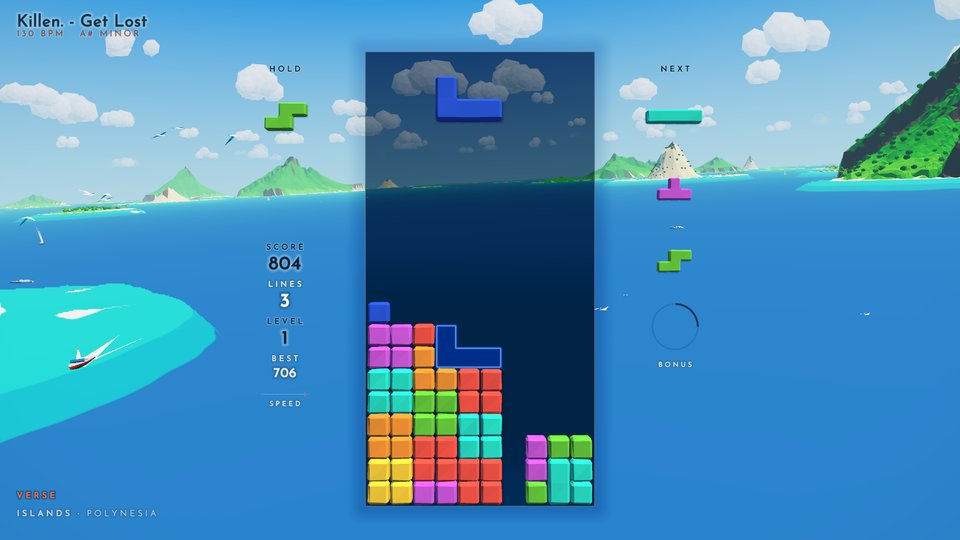
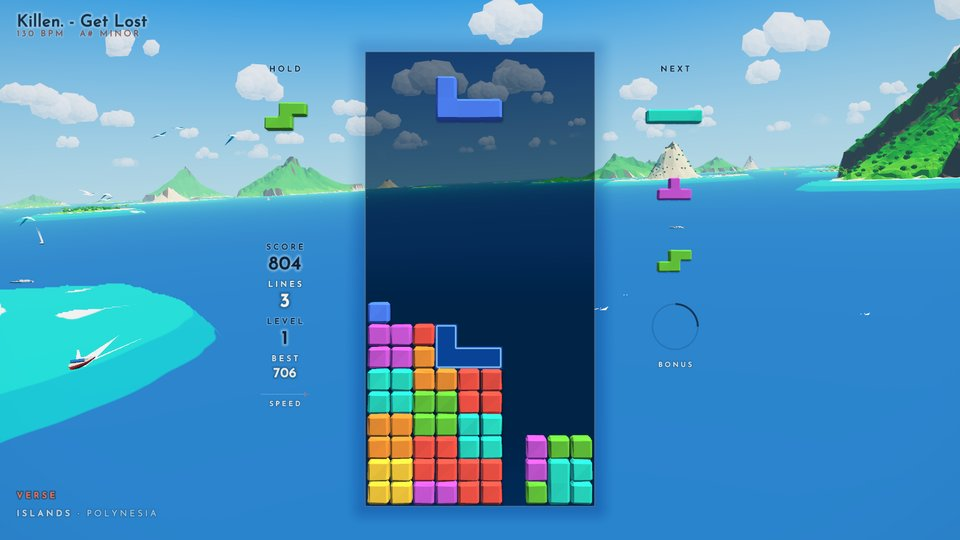
ISLANDS: the blue piece lighter in every variant (it sank into the deep blue well)
Claude-Session: https://claude.ai/code/session_01TRpCVe8qgHvBr5qwovmpX7

Changed region(s): [[0.4375, 0.1185, 0.5312, 0.237], [0.4375, 0.5926, 0.5312, 0.6815], [0.375, 0.563, 0.4062, 0.5926]]

diff --git a/src/universes/islands/islands.cpp b/src/universes/islands/islands.cpp
@@ -121,22 +121,22 @@ const VariantDef VARIANTS[] = {
     {"CARIBBEAN", 0xf2dfa8, 0xd8c08a, 0x6cc040, 0x3e9a34, 0x7a5e48, 0x5a4234, 0xe6dcc0, 0xc4806c, 0x6e9048, 0xa4a052, 0.12f,
      0x3ccad2, 0x2366b6, {0.85f, 0.16f, 0.1f}, 9.f, 1.f,
      0x4f9a2e, 0xc2b848, 0x8c7658, 0x3e8c30, 0x2a6a28, 0.42f, 0,
-     0x0a1e32, {0x22d0d6, 0xf7c332, 0xa760e8, 0x3fcf6e, 0xf0475e, 0x3466f0, 0xff8c2e}, 0xff7a5a},
+     0x0a1e32, {0x22d0d6, 0xf7c332, 0xa760e8, 0x3fcf6e, 0xf0475e, 0x5c90ff, 0xff8c2e}, 0xff7a5a},
     // jagged jungle peaks in emerald lagoons, overwater bungalows of thatch
     {"POLYNESIA", 0xf0dca8, 0xd4bc88, 0x58b838, 0x2a8a30, 0x6a5444, 0x4e3a2e, 0xe4dcc2, 0xcc8670, 0x80689c, 0x8aa648, 0.05f,
      0x36d2c2, 0x1d5cac, {0.8f, 0.13f, 0.09f}, 10.f, 1.1f,
      0x3e902a, 0xb4c040, 0x806c50, 0x2e8228, 0x1c5a22, 0.5f, 0,
-     0x081e2a, {0x2ae6c4, 0xffd23c, 0xd25ad8, 0x6ad13c, 0xff5646, 0x2a58d8, 0xff9a36}, 0xff6a4a},
+     0x081e2a, {0x2ae6c4, 0xffd23c, 0xd25ad8, 0x6ad13c, 0xff5646, 0x5288fa, 0xff9a36}, 0xff6a4a},
     // white villages, olive trees and cypresses on pale limestone, a deep blue sea
     {"MEDITERRANEAN", 0xecdcb0, 0xccb48a, 0x9aac46, 0x5a8034, 0xb8946c, 0x86624a, 0xdcd6c4, 0x8c8c62, 0x5c7046, 0xc8a456, 0.45f,
      0x34b2da, 0x1c56ae, {0.75f, 0.12f, 0.075f}, 7.f, 0.9f,
      0x6a8a3a, 0xa8a050, 0x7a6450, 0x6a7a44, 0x3c4e2a, 0.3f, 0,
-     0x0a1836, {0x2ec8ec, 0xf4cc46, 0x9070e4, 0x5cc04c, 0xec5044, 0x1e50dc, 0xf28c3a}, 0x2a5ae0},
+     0x0a1836, {0x2ec8ec, 0xf4cc46, 0x9070e4, 0x5cc04c, 0xec5044, 0x4c86f6, 0xf28c3a}, 0x2a5ae0},
     // the whole flight in the golden hour, into the sunset and the night, the lanterns lit along the shores
     {"SUNSET", 0xf0d8a8, 0xd0b084, 0x66b23c, 0x348a30, 0x76604c, 0x58443a, 0xe6d8c0, 0xc47e6a, 0x6e844a, 0xa4a052, 0.1f,
      0x34c0ca, 0x1f5eac, {0.85f, 0.16f, 0.1f}, 9.f, 0.85f,
      0x4c922e, 0xc8b048, 0x86704e, 0x3a8030, 0x26622a, 0.45f, 1,
-     0x121432, {0x2cd8e2, 0xffd84a, 0xb86cf2, 0x48d87c, 0xff4f6e, 0x4a78ff, 0xff9a3c}, 0xffae4a},
+     0x121432, {0x2cd8e2, 0xffd84a, 0xb86cf2, 0x48d87c, 0xff4f6e, 0x6e9cff, 0xff9a3c}, 0xffae4a},
 };
 constexpr int VARIANT_COUNT = (int)(sizeof(VARIANTS) / sizeof(VARIANTS[0]));
 
